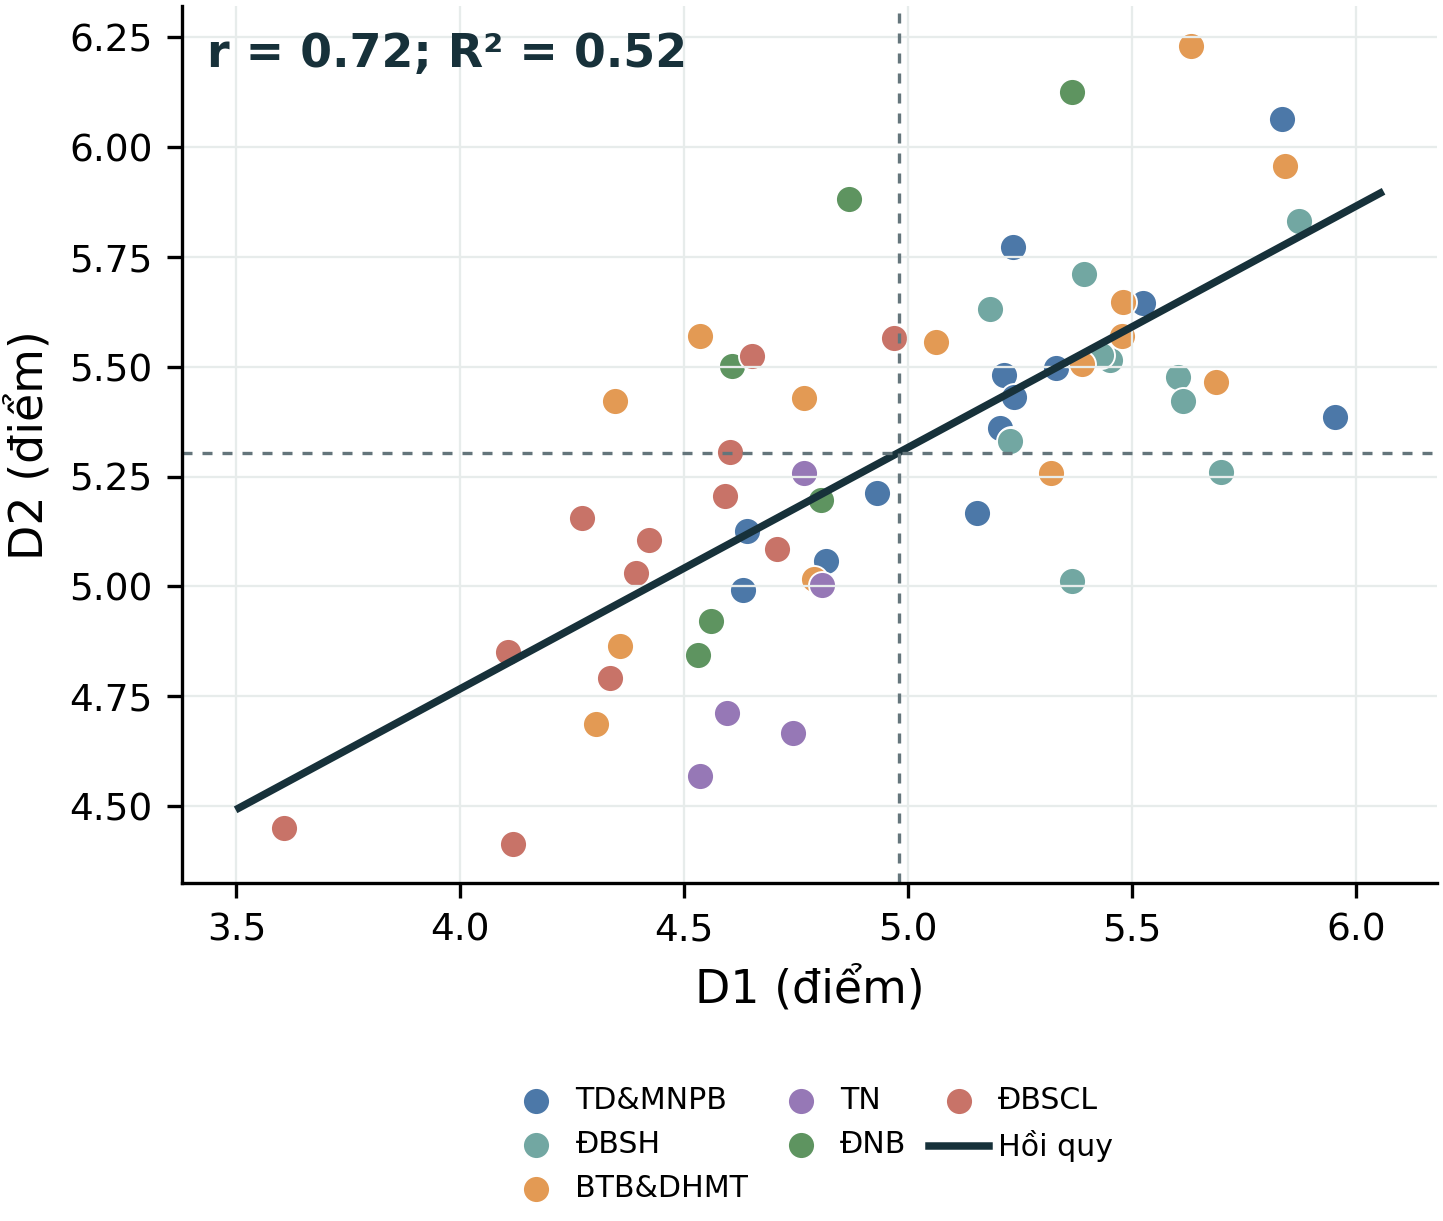
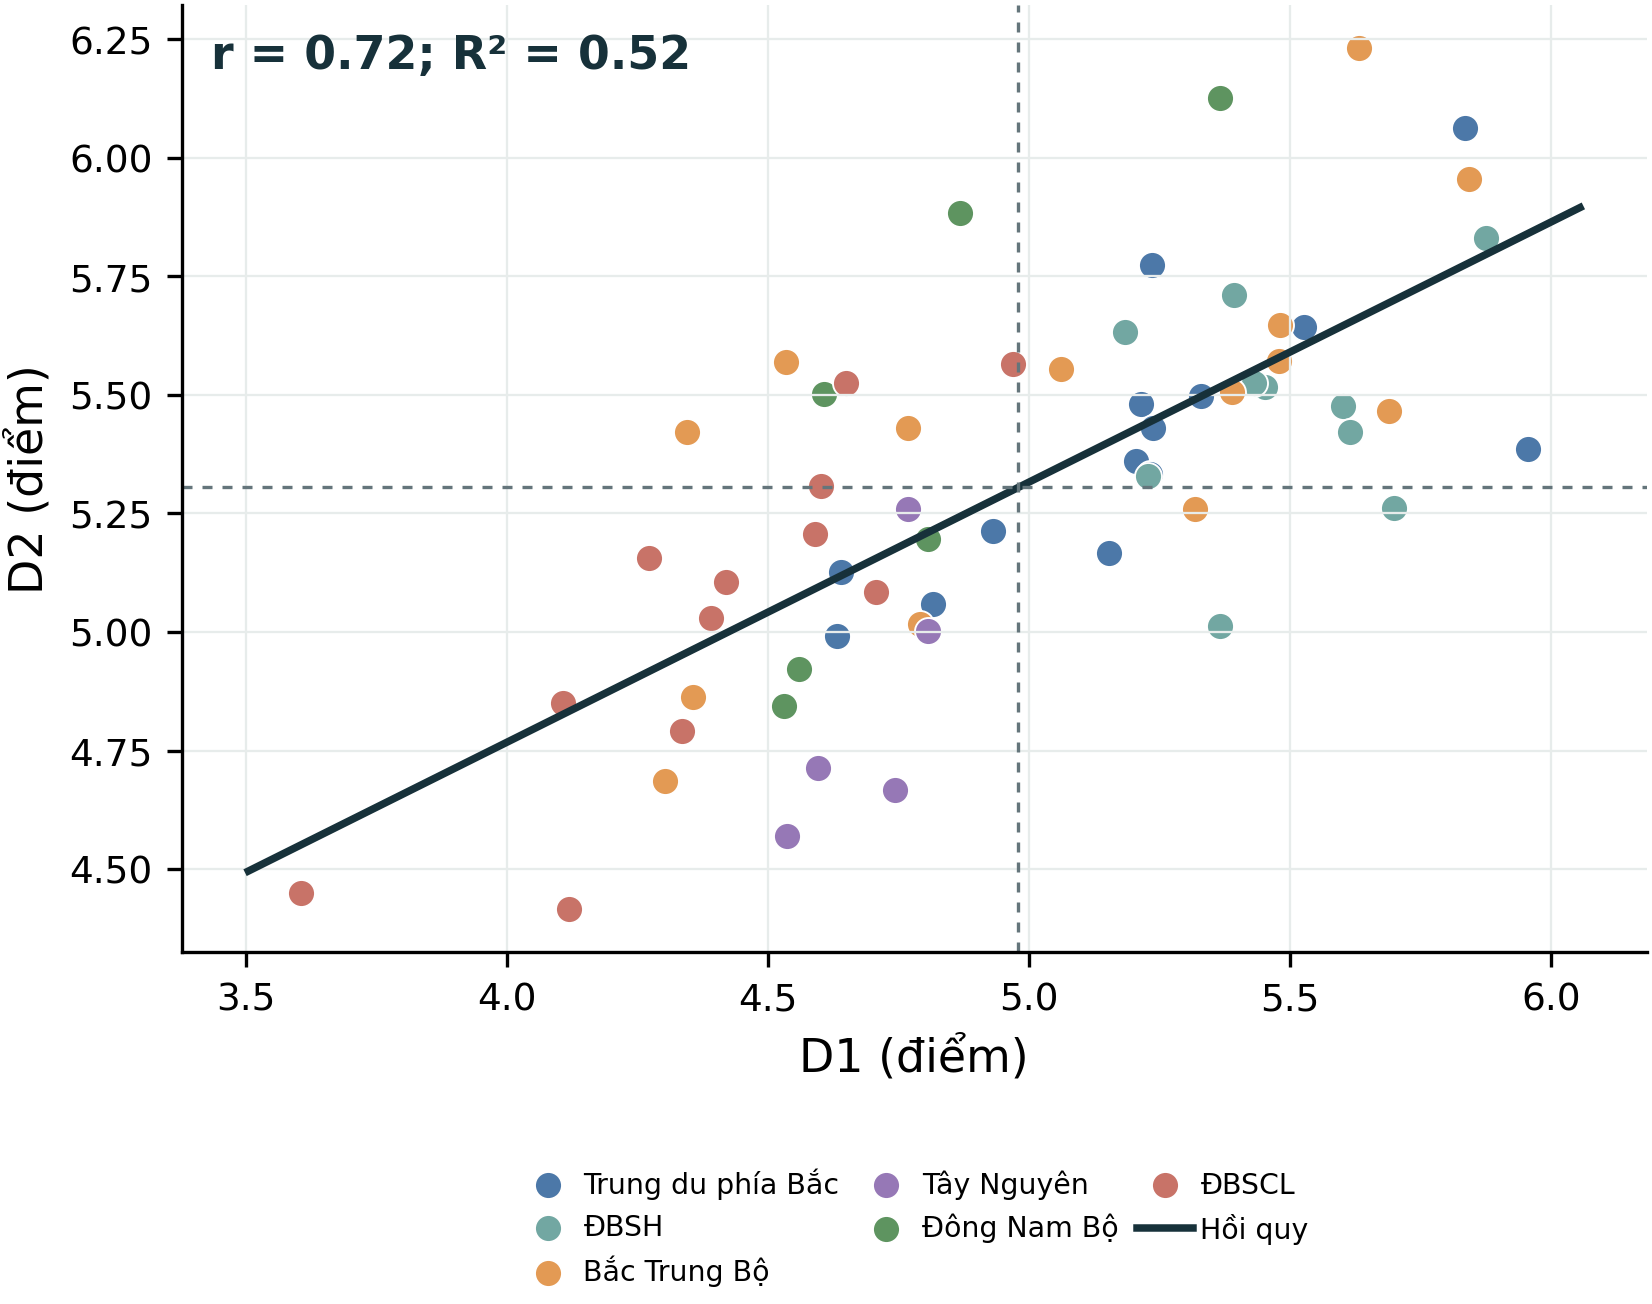
docs: finalize dimension relationship requirements

diff --git a/report/content/03_visual_analysis.tex b/report/content/03_visual_analysis.tex
@@ -192,7 +192,7 @@ Hệ số $r$ trong Phương trình~\ref{eq:dimension-pearson} cho biết hướ
 \label{eq:dimension-regression}
 \hat{y}_i=a+bx_i, \qquad e_i=y_i-\hat{y}_i.
 \end{equation}
-Trong đó, $R^2$ cho biết tỷ lệ biến thiên của $Y$ được mô hình tuyến tính mô tả trong mẫu đang xét; $e_i$ dương nghĩa là điểm quan sát cao hơn dự đoán, còn $e_i$ âm nghĩa là thấp hơn dự đoán. Độ phân tán của từng lĩnh vực được mô tả bằng độ lệch chuẩn mẫu (SD) và biểu diễn bằng trung bình cộng trừ một SD. Các chỉ số này chỉ phục vụ mô tả trong mặt cắt năm 2024, không khẳng định tác động hay quan hệ nhân quả giữa các lĩnh vực.
+Trong đó, $R^2$ cho biết tỷ lệ biến thiên của $Y$ được mô hình tuyến tính mô tả trong mẫu đang xét; $e_i$ dương nghĩa là điểm quan sát cao hơn dự đoán, còn $e_i$ âm nghĩa là thấp hơn dự đoán. Độ phân tán của từng lĩnh vực được mô tả bằng độ lệch chuẩn mẫu (SD) và biểu diễn bằng trung bình cộng trừ một SD. Các chỉ số này chỉ phục vụ mô tả trong mặt cắt năm 2024, không khẳng định quan hệ nhân quả giữa các lĩnh vực.
 
 \subsubsection{Bức tranh tương quan giữa tám lĩnh vực}
 

diff --git a/slides/content/7-dimension-relationships.tex b/slides/content/7-dimension-relationships.tex
@@ -31,7 +31,7 @@
 
   \vspace{0.03cm}
   \centering
-  {\scriptsize \textbf{Cách đọc:} Pearson $r$ $\rightarrow$ hồi quy và $R^2$ $\rightarrow$ phần dư $\rightarrow$ trung bình $\pm$ độ lệch chuẩn. Các chỉ số chỉ mô tả liên hệ quan sát, không phải quan hệ nhân quả.}
+  {\scriptsize \textbf{Cách đọc:} Pearson $r$ $\rightarrow$ hồi quy và $R^2$ $\rightarrow$ phần dư $\rightarrow$ trung bình $\pm$ độ lệch chuẩn. Mô tả liên hệ, không phải quan hệ nhân quả.}
   \sourcefoot{PAPI Việt Nam 2024.}
 \end{frame}
 
